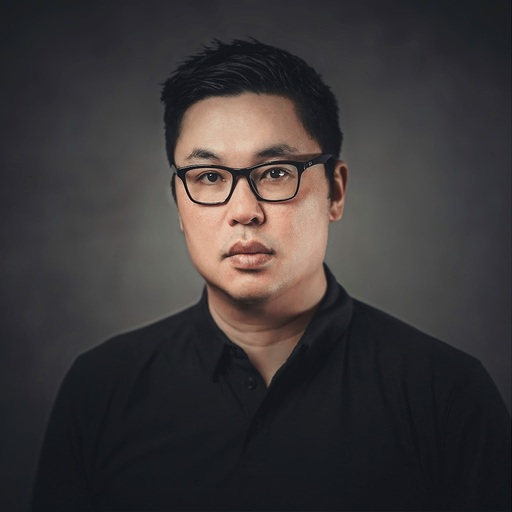
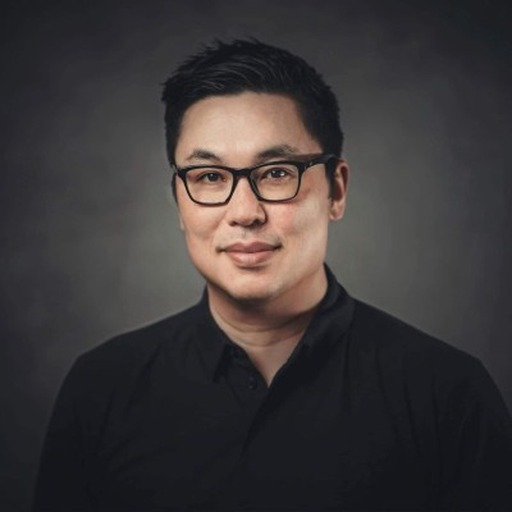
Update Nick bio and headshot on home and leadership
Use nick2.jpg and a tightened healthcare growth bio under Nick
on the homepage team strip and leadership founders section.

Changed region(s): [[0.3438, 0.2812, 0.625, 0.625], [0.6562, 0.3438, 0.6875, 0.4062]]

diff --git a/src/content/partials/leadership.html b/src/content/partials/leadership.html
@@ -19,11 +19,11 @@
         </div>
       </div>
       <div style="display: flex; gap: 28px; padding: 36px; background: #FFFFFF; border: 1px solid rgba(10,29,56,.09); border-radius: 4px; animation: rise .8s .1s both;">
-        <img src="/images/nick.jpg" alt="Nick" style="flex-shrink: 0; width: 112px; height: 112px; border-radius: 50%; object-fit: cover;">
+        <img src="/images/nick2.jpg" alt="Nick Perez" style="flex-shrink: 0; width: 112px; height: 112px; border-radius: 50%; object-fit: cover;">
         <div>
           <h2 style="margin: 0; font-family: 'Plus Jakarta Sans', sans-serif; font-weight: 800; font-size: 23px; letter-spacing: -.6px;">Nick</h2>
           <div style="margin: 6px 0 14px; font-size: 13px; font-weight: 600; letter-spacing: .08em; text-transform: uppercase; color: #1A4FD0;">Co-Founder · Growth &amp; Healthcare</div>
-          <p style="margin: 0; font-size: 14.5px; line-height: 1.65; color: rgba(10,29,56,.7);">Scaled Bitwage's U.S. ARR from zero to ~$25M as VP of Growth, and directed marketing for a PE-backed healthcare organization with 100+ locations across multiple states.</p>
+          <p style="margin: 0; font-size: 14.5px; line-height: 1.65; color: rgba(10,29,56,.7);">Healthcare and wellness growth executive with 20+ years building brands, launching products, and driving patient acquisition across multi-location healthcare, digital health, and consumer wellness — combining marketing leadership, performance, and AI-enabled growth systems.</p>
         </div>
       </div>
     </div>
